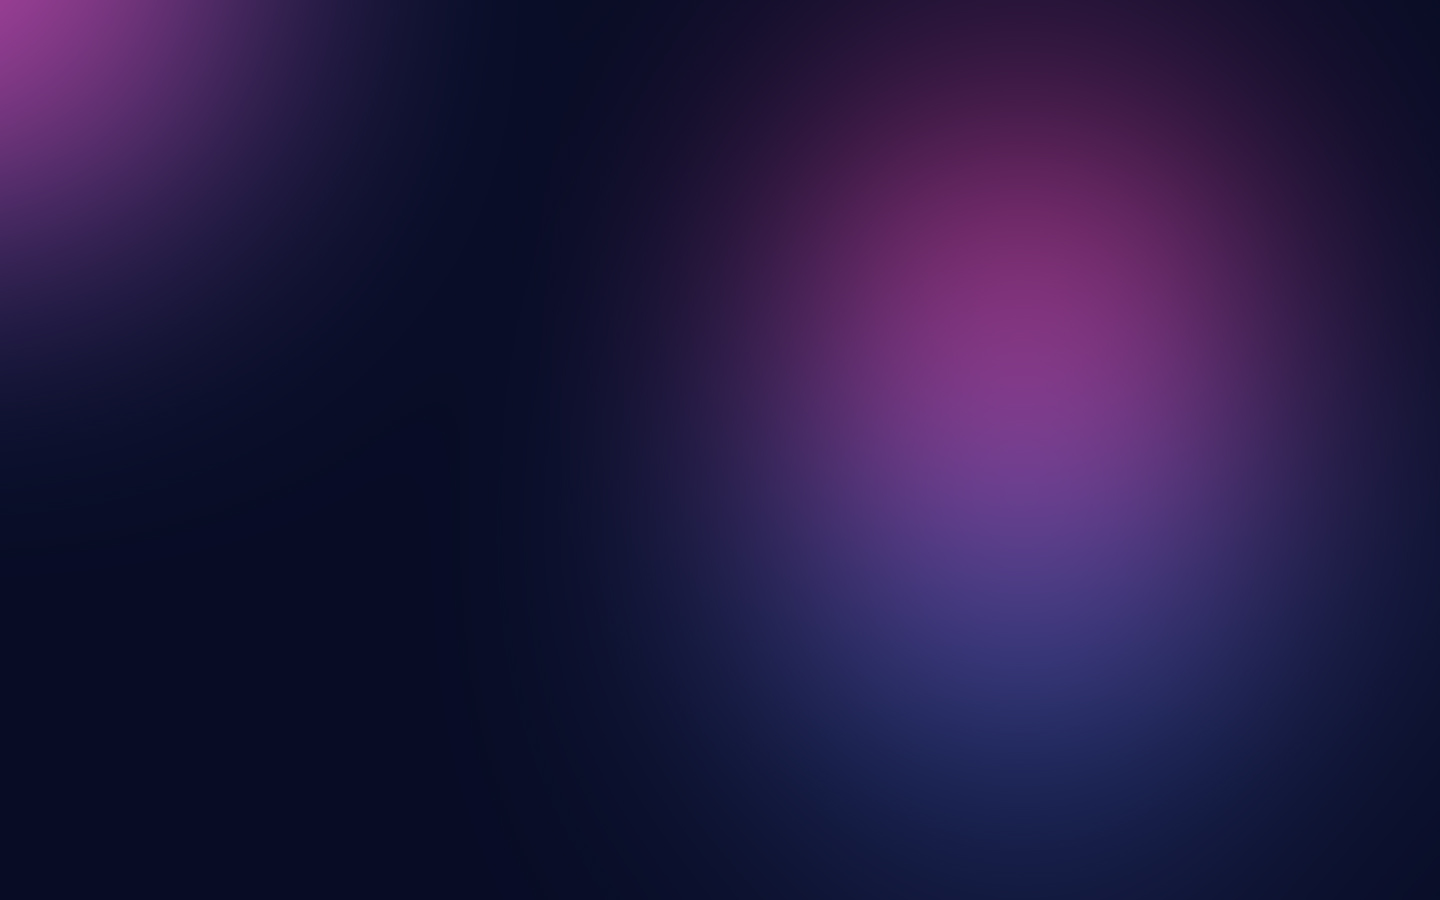
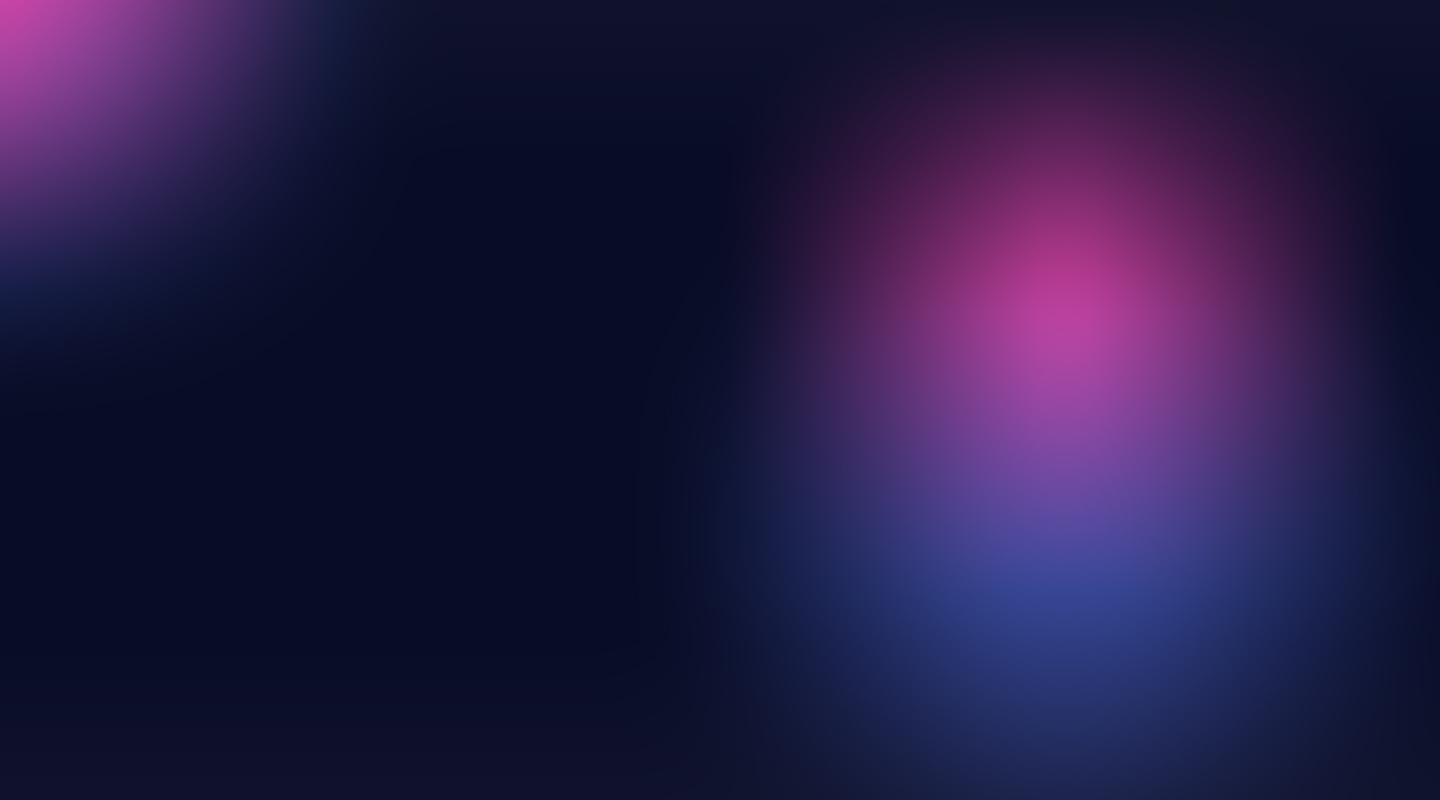
Create Navbar , Add background body

diff --git a/styles.css b/styles.css
@@ -1,0 +1,117 @@
+@import url("https://fonts.googleapis.com/css2?family=Roboto:wght@400;500;700&display=swap");
+
+* {
+  margin: 0;
+  padding: 0;
+}
+
+a {
+  text-decoration: none;
+}
+
+li {
+  list-style-type: none;
+}
+
+body {
+  background-image: url(images/1.jpg);
+}
+
+nav {
+  padding: 30px 80px;
+  font-family: "Roboto", sans-serif;
+}
+
+.div-nav {
+  display: flex;
+}
+
+.brand-navbar {
+  display: flex;
+}
+
+.brand-navbar span {
+  color: white;
+  margin-left: 10px;
+}
+
+.logo-brand-navbar {
+  width: 30px;
+  height: 40px;
+  background: rgb(187, 45, 147);
+  background: linear-gradient(
+    184deg,
+    rgba(187, 45, 147, 1) 0%,
+    rgba(12, 157, 246, 1) 100%
+  );
+  transform: skew(10deg, 10deg);
+  position: relative;
+  top: -10px;
+  /* border: #0e1646 1px solid; */
+  box-shadow: white 0px 0px 48px -2px;
+}
+
+.menu-navbar {
+  margin-left: auto;
+  margin-right: 70px;
+}
+
+.menu-navbar ul li {
+  display: inline;
+  padding: 5px 25px;
+}
+
+.menu-navbar ul li a {
+  color: white;
+}
+
+.btn-navbar {
+}
+
+.btn-navbar a {
+  color: white;
+  background-color: #c82389;
+  padding: 10px 30px;
+  border-radius: 5px;
+}
+
+.btn-menu-mobile {
+  display: none;
+  margin-left: auto;
+}
+
+.btn-menu-mobile ion-icon {
+  color: white;
+  font-size: 30px;
+}
+
+@media screen and (max-width: 1150px) {
+  .menu-navbar ul li {
+    display: inline;
+    padding: 5px 15px;
+  }
+  .menu-navbar {
+    margin-left: auto;
+    margin-right: 40px;
+  }
+
+  nav {
+    padding: 30px 50px;
+  }
+}
+
+@media screen and (max-width: 900px) {
+  .menu-navbar,
+  .btn-navbar {
+    display: none;
+  }
+  .btn-menu-mobile {
+    display: block;
+  }
+}
+
+@media screen and (max-width: 400px) {
+  nav {
+    padding: 30px 30px;
+  }
+}

diff --git a/index.html b/index.html
@@ -1,0 +1,37 @@
+<!DOCTYPE html>
+<html lang="en">
+  <head>
+    <meta charset="UTF-8" />
+    <meta http-equiv="X-UA-Compatible" content="IE=edge" />
+    <meta name="viewport" content="width=device-width, initial-scale=1.0" />
+    <title>Workout Web Design</title>
+    <link rel="stylesheet" href="styles.css" />
+  </head>
+  <body>
+    <nav>
+      <div class="div-nav">
+        <div class="brand-navbar">
+          <div class="logo-brand-navbar"></div>
+          <span>Reprove</span>
+        </div>
+        <div class="menu-navbar">
+          <ul>
+            <li><a href="#">Home</a></li>
+            <li><a href="#">About</a></li>
+            <li><a href="#">Blog</a></li>
+            <li><a href="#">Explore</a></li>
+            <li><a href="#">Contact</a></li>
+          </ul>
+        </div>
+        <div class="btn-navbar">
+          <a href="#">Sign up</a>
+        </div>
+        <div class="btn-menu-mobile">
+          <ion-icon name="grid-outline"></ion-icon>
+        </div>
+      </div>
+    </nav>
+    <script src="https://unpkg.com/ionicons@5.5.2/dist/ionicons/ionicons.esm.js"></script>
+    <script src="https://unpkg.com/ionicons@5.5.2/dist/ionicons/ionicons.js"></script>
+  </body>
+</html>
